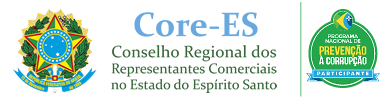
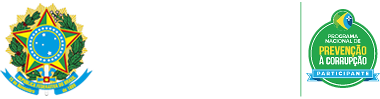
Atualiza dados core-es

diff --git a/resources/views/site/layout/app.blade.php b/resources/views/site/layout/app.blade.php
@@ -128,7 +128,7 @@
                     <a href="#" class="nav-link dropdown-toggle" id="navbarDropdownCore" role="button" data-toggle="dropdown">Core-ES</a>
                     <div class="dropdown-menu" aria-labelledby="navbarDropdownCore">
                       <a href="/concursos" class="dropdown-item">Concursos</a>
-                      <a href="/conselho" class="dropdown-item">Conselho</a>
+                      <!-- <a href="/conselho" class="dropdown-item">Conselho</a> -->
                       <a href="/institucional" class="dropdown-item">Institucional</a>
                       <a href="/legislacao" class="dropdown-item">Legislação</a>
                       <a href="/missao-visao-e-valores" class="dropdown-item">Missão, Visão e Valores</a>
@@ -204,7 +204,7 @@
             </div>
           </div>
         </div>
-        <a href="/servicos-atendimento-ao-rc">
+        <a href="https://core-es.implanta.net.br/portaltransparencia/#publico/PerguntasFrequentes">
           <div class="container-fluid azul-claro-bg pt-2 pb-2">
             <div class="row">
                 <div class="container">

diff --git a/app/Http/Controllers/Auth/LoginController.php b/app/Http/Controllers/Auth/LoginController.php
@@ -60,15 +60,15 @@ class LoginController extends Controller
             if(!isset($check)) {
                 $sessao = new Sessao();
                 $sessao->idusuario = $user->idusuario;
-                $sessao->ip_address = $_SERVER['HTTP_X_REAL_IP'];
+                $sessao->ip_address = $request->ip();
                 $save = $sessao->save();
                 if(!$save)
                     abort(500);
             } else {
-                if($check->ip_address == $_SERVER['HTTP_X_REAL_IP']) {
+                if($check->ip_address == $request->ip()) {
                     $update = $check->touch();
                 } else {
-                    $check->ip_address = $_SERVER['HTTP_X_REAL_IP'];
+                    $check->ip_address = $request->ip();
                     $update = $check->update();
                 }
                 if(!$update)

diff --git a/resources/views/admin/views/suporte_erros.blade.php b/resources/views/admin/views/suporte_erros.blade.php
@@ -1,5 +1,5 @@
 <div class="card-body">
-    @if(auth()->user()->isAdmin() && auth()->user()->email == 'desenvolvimento@core-es.org.br')
+    @if(auth()->user()->isAdmin() && auth()->user()->email == 'ti@core-es.org.br')
     <div class="row mb-4">
         <div class="col">
             <h5>Área de upload e download é restrita ao desenvolvedor, que será responsável para atualizar o arquivo</h5>
